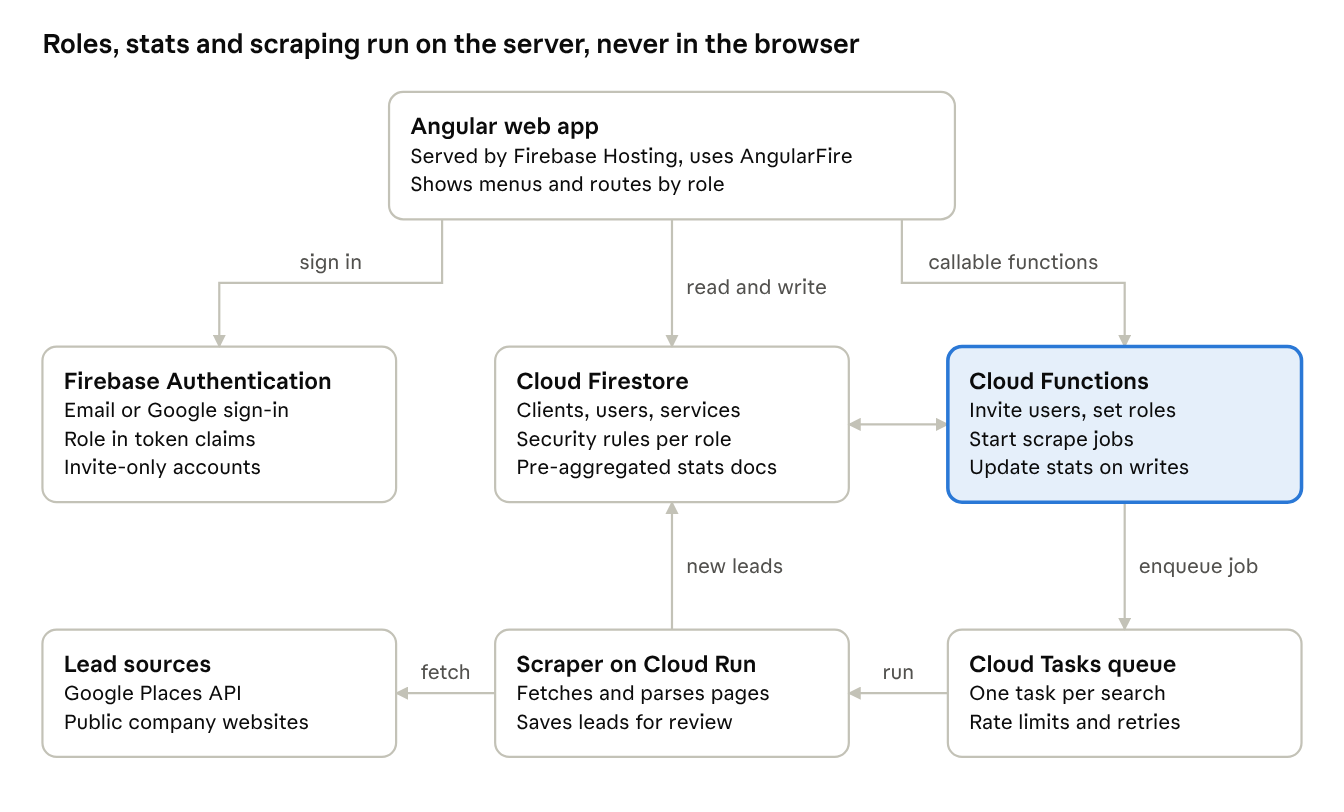
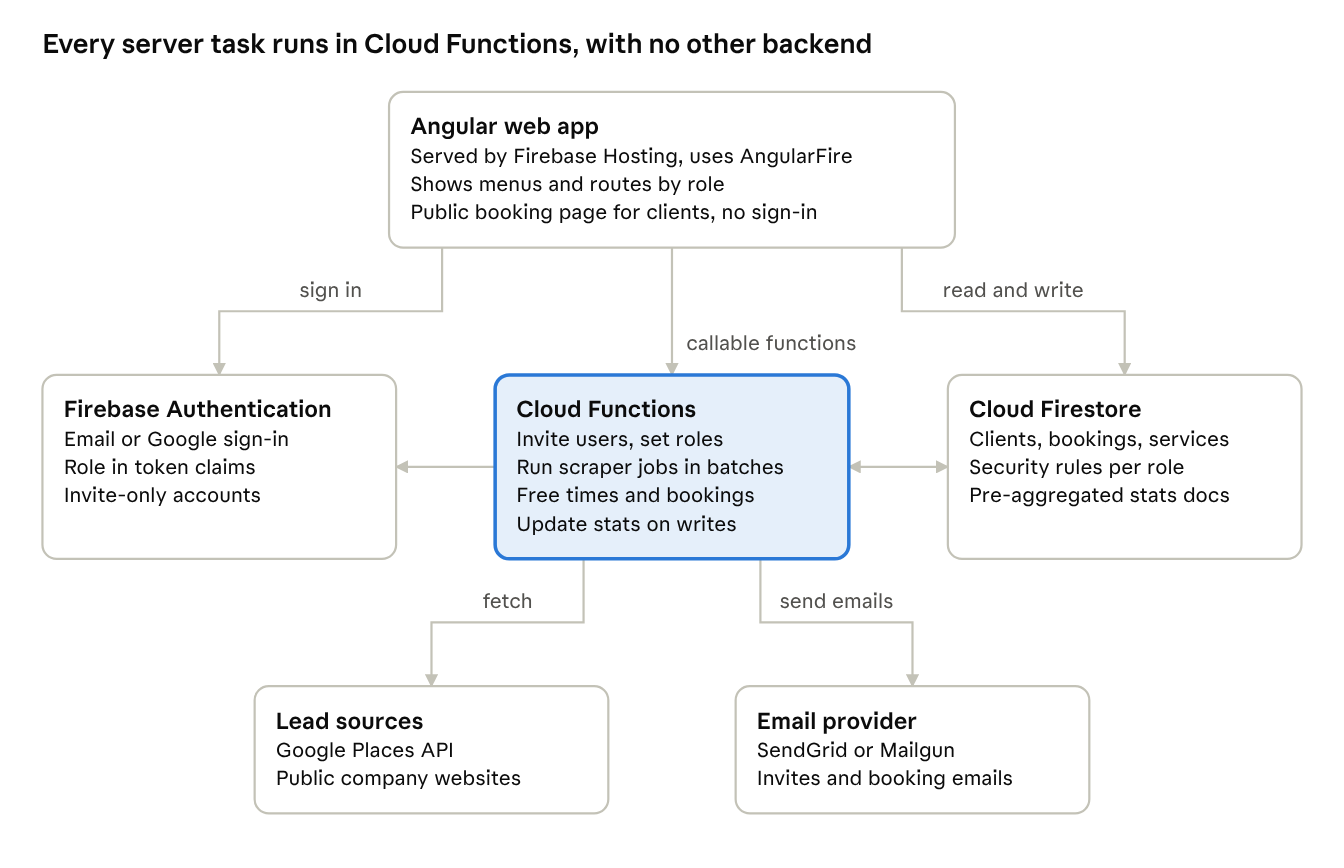
Update planning doc: Functions-only backend, booking calendar, teams
- Run all server logic, including the scraper, in Firebase Functions;
  drop Cloud Run and Cloud Tasks
- Add calendar and booking module: seller availability, public booking
  page, team calendars, booking emails
- One team per user, one team per lead; admins manage several teams and
  the services each team sells
- Move backups, audit log and monitoring to after launch
- Redraw architecture, sitemap and roadmap diagrams

diff --git a/docs/planning.md b/docs/planning.md
@@ -4,34 +4,36 @@ Nov 21, 2026
 
 ## Overview
 
-Klosers CRM is a web app where a sales team keeps its clients in one place, finds new leads with a scraper, moves deals across a pipeline board, and tracks results. It runs on Angular and Firebase, and an admin controls access through roles and per-user permissions.
+Klosers CRM is a web app where a sales team keeps its clients in one place, finds new leads with a scraper, moves deals across a pipeline board, lets clients book calls with sellers, and tracks results. It runs on Angular and Firebase, and an admin controls access through roles and per-user permissions.
 
 **Goals for the first version**
 
-- One shared client database per team, replacing spreadsheets.
+- One shared client database, where each client belongs to one team and one seller, replacing spreadsheets.
 - Admins decide who can see and change what, per role and per user.
-- Every member sees their own numbers; admins see the whole team.
+- Admins manage several teams at the same time, and each team sells its own services.
+- Every member sees their own numbers; admins see every team.
+- Clients book calls with sellers on a public booking page, and each seller controls their own availability.
 - The scraper feeds new leads into a review inbox before they reach the database.
-- The services the team sells are documented in the app and linked to clients and sales.
+- The services each team sells are documented in the app and linked to clients and sales.
 
-**Done means** an admin can invite a member, the member can sign in and work clients on the board, and both see accurate statistics for a chosen period.
+**Done means** an admin can invite a member, the member can sign in and work clients on the board, a client can book a call with that member, and both see accurate statistics for a chosen period.
 
-**Scope:** an internal tool for one company and its sales teams, running in a single production environment.
+**Scope:** an internal tool for one company and its sales teams, running in a single production environment, with the public booking page as the only part open to people outside the company.
 
 ## Roles and permissions
 
-Three roles cover the brief: Admin, Team lead and Member. Each role gives a default set of permissions, and an admin can switch individual permissions on or off for any user.
+Three roles cover the brief: Admin, Team lead and Member. Each role gives a default set of permissions, and an admin can switch individual permissions on or off for any user. Every member and team lead belongs to exactly one team, and a team lead leads only that team. Admins belong to no team: they can work in every team, switch between teams, or view all of them at once.
 
-- **Admin** runs the whole organization: users, teams, permissions, services, pipeline stages and every dashboard.
-- **Team lead** manages one team's clients and sees that team's dashboard. This role is optional; see the open questions.
-- **Member** is a salesperson who works their own clients and sees their own statistics.
+- **Admin** runs the whole organization: users, teams, permissions, services, pipeline stages and every dashboard. Admins manage several teams and their services at the same time.
+- **Team lead** manages one team's clients and calendars and sees that team's dashboard. A team lead can lead only one team.
+- **Member** is a salesperson who works their own clients, keeps their own calendar and availability, and sees their own statistics.
 
 | Permission | Admin | Team lead | Member |
 | --- | --- | --- | --- |
 | Invite and deactivate users | Yes | No | No |
 | Assign roles and permissions | Yes | No | No |
-| Create and edit teams | Yes | No | No |
-| Manage the services catalog | Yes | View | View |
+| Create and edit teams, and set team leads | Yes | No | No |
+| Manage the services catalog and assign services to teams | Yes | View | View |
 | Configure pipeline stages | Yes | No | No |
 | Create clients | Yes | Yes | Yes |
 | Edit clients | All | Own team | Own |
@@ -39,16 +41,19 @@ Three roles cover the brief: Admin, Team lead and Member. Each role gives a defa
 | Reassign a client's owner | All | Own team | No |
 | Run the scraper | Yes | Yes | Optional |
 | Import and export CSV | Yes | Own team | No |
+| Set own availability and booking link | Yes | Yes | Yes |
+| See own calendar and bookings | Yes | Yes | Yes |
+| See team calendars and edit a seller's availability | All teams | Own team | No |
+| Reschedule or cancel another seller's call | All teams | Own team | No |
 | See own statistics | Yes | Yes | Yes |
 | See team totals | All teams | Own team | Optional |
 | See the per-member dashboard | All teams | Own team | No |
-| Read the audit log | Yes | No | No |
 
 "Optional" means off by default, and an admin can turn it on per user.
 
 ## Functional modules
 
-The first version has eight modules. I read "board to administrate" as two things, the pipeline board and the admin panel, and planned both.
+The first version has nine modules. I read "board to administrate" as two things, the pipeline board and the admin panel, and planned both.
 
 ### 1. Authentication
 
@@ -60,7 +65,9 @@ The first version has eight modules. I read "board to administrate" as two thing
 ### 2. Admin panel: users and teams
 
 - Invite a user by email, choose their team and role, and adjust individual permissions.
-- Create teams and name a team lead.
+- Create any number of teams and name a lead for each. A team lead can lead only one team, and every member belongs to one team.
+- Admins belong to no team. They switch between teams or view all of them at once, and manage every team's clients, calendars and services.
+- Assign to each team the services it sells.
 - Deactivate users instead of deleting them, so their history stays intact.
 - Reassign a departing user's clients to someone else in one step.
 
@@ -99,14 +106,26 @@ The first version has eight modules. I read "board to administrate" as two thing
 
 ### 8. Services catalog
 
-- Admins record each service the team sells: name, description, price or price range, currency, category and an active flag.
+- Admins record every service the company sells: name, description, price or price range, currency, category and an active flag. A service can be any product or service.
+- Each team sells its own set of services. Admins assign every service to one or more teams, and a team sees only its own services.
 - Optional links to sales material such as brochures or presentations.
-- Clients and won deals link to one or more services, which powers sales-by-service statistics.
-- Every member can read the catalog when answering a client's questions.
+- Clients, bookings and won deals link to one or more services, which powers sales-by-service statistics.
+- Every member can read their team's services when answering a client's questions.
+
+### 9. Calendar and booking
+
+- **Availability.** Each seller sets weekly working hours, call length (for example 15, 30 or 60 minutes), a buffer between calls, minimum notice, how far ahead clients can book, and days off. Each seller also sets the meeting link shared with clients, or chooses phone calls, and can pause bookings at any time.
+- **Public booking page.** Every seller gets a personal link. A client picks a free time in their own time zone, enters name, email and phone, adds an optional message and service of interest, and confirms. No account is needed.
+- **Linked to the CRM.** A booking creates the client with the source "booking" and the seller as owner, or attaches to the existing client with the same email, and adds the call to the client's timeline.
+- **Emails.** The client and the seller get a confirmation with a calendar file, and a reminder goes out before the call. The client can reschedule or cancel from a link in the email.
+- **Seller calendar.** Day and week views of booked calls. Opening a call shows the client, the meeting link and notes, and lets the seller mark it completed or no-show, reschedule it or cancel it.
+- **Team and admin views.** Team leads see the calendars of their own team. Admins see every team's calendars and can switch between teams.
+- **No double booking.** The server reserves a time in one step, so two clients can never take the same slot. A time disappears when it is booked, when the seller adds time off, or when it falls inside the minimum notice.
+- **Not in the first version:** syncing with Google or Outlook calendars, one team link that assigns whoever is free, and paid bookings.
 
 ## Features and screens for design
 
-The app has 20 screens: two before sign-in, 16 in six sidebar sections, and profile and notifications in the top bar. This section is the brief for the designer, and the UI will be built with Tailwind CSS on Angular.
+The app has 25 screens: two before sign-in, three public booking pages for clients, 18 in seven sidebar sections, and profile and notifications in the top bar. This section is the brief for the designer, and the UI will be built with Tailwind CSS on Angular.
 
 ### Design constraints
 
@@ -115,13 +134,14 @@ The app has 20 screens: two before sign-in, 16 in six sidebar sections, and prof
 - Desktop first, and every screen must still work at phone width.
 - One language only, and text contrast must meet WCAG 2.1 AA.
 - Controls a user has no permission for are hidden, not just disabled.
+- The three booking pages are for clients outside the company: a simple layout with no sidebar, the company logo, large touch-friendly time slots, and the time zone shown next to every time.
 - Still needed from the owner: logo, brand colors, and whether dark mode is wanted.
 
 ### Sitemap
 
-![Sitemap: six sidebar sections, 20 screens](images/sitemap.png)
+![Sitemap: seven sidebar sections, 25 screens](images/sitemap.png)
 
-Members and team leads see the first five sections. The Team dashboard shows only to admins and team leads.
+Members and team leads see the first six sections, and the Admin section is for admins only. The Team dashboard and the Team calendar show only to admins and team leads. The three booking pages are public.
 
 ### Screens
 
@@ -129,46 +149,55 @@ Members and team leads see the first five sections. The Team dashboard shows onl
 | --- | --- | --- | --- | --- |
 | Sign in | 1 | Everyone | Email and password form, Google button, forgot-password link | Sign in, reset password |
 | Accept invite | 1 | Invited users | Welcome message, assigned team and role, password fields | Create account |
-| My dashboard | 2 | Everyone | KPI cards, won-revenue trend, overdue follow-ups, today's tasks | Change period, open a client |
-| Team dashboard | 2 | Admins, team leads | KPIs per team and member, leaderboard, pipeline funnel, sales by service | Filter by date, team, member and service |
+| Booking page | 2 | Clients, no account | The seller's name, call length, a date picker and free times in the client's time zone, and a short form for name, email, phone, message and service of interest | Pick a time, confirm the booking |
+| Booking confirmation | 2 | Clients, no account | The booked time, the seller, the meeting link and a calendar file | Add to calendar, reschedule, cancel |
+| Manage booking | 2 | Clients, no account | The booking behind an emailed link, with free times to move it to | Reschedule, cancel |
+| My dashboard | 3 | Everyone | KPI cards, won-revenue trend, overdue follow-ups, today's tasks | Change period, open a client |
+| Team dashboard | 3 | Admins, team leads | KPIs per team and member, leaderboard, pipeline funnel, sales by service; admins can pick one team or all teams | Filter by date, team, member and service |
 | Client list | 1 | Everyone | Searchable table with filters, sorting, pagination and stage badges | Add client, bulk assign, bulk stage change, delete |
-| Client detail | 1 | Everyone | Contact data, stage, owner, services and value; activity timeline from Phase 2 | Edit, change stage, log activity, set follow-up |
+| Client detail | 1 | Everyone | Contact data, stage, owner, services and value, booked calls; activity timeline from Phase 3 | Edit, change stage, log activity, set follow-up |
 | Client form | 1 | Everyone | Client fields with validation and a duplicate warning | Save, cancel |
-| CSV import | 2 | Admins, team leads | File upload, column mapping, preview with row errors | Import, download template |
+| CSV import | 3 | Admins, team leads | File upload, column mapping, preview with row errors | Import, download template |
 | Kanban board | 1 | Everyone | One column per stage, client cards, value total per column | Drag cards, filter, quick add |
 | Won or lost | 1 | Everyone | Dialog asking for the final value or the loss reason | Confirm, cancel |
-| Lead searches | 3 | Users allowed to scrape | Search form, past searches with status and progress | Start a search, open results |
-| Review inbox | 3 | Users allowed to scrape | Leads from one search, with duplicate flags | Accept, reject, accept all |
-| Service list | 1 | Everyone | Services with price range, category and active flag | Open a service; admins add and edit |
-| Service form | 1 | Admins | Service fields and links to sales material | Save, deactivate |
+| My calendar | 2 | Everyone who sells | Day and week views of booked calls and time off; a call opens in a drawer with the client, meeting link and notes | Mark completed or no-show, reschedule, cancel, add notes |
+| Availability | 2 | Everyone who sells | Weekly hours, call length, buffer, minimum notice, booking window, days off, meeting link, booking link and a pause switch | Edit hours, add time off, copy link, pause bookings |
+| Team calendar | 2 | Admins, team leads | The calendars of every seller in a team side by side; admins can pick a team or all teams | Filter by team and seller, open a call, edit a seller's availability |
+| Lead searches | 4 | Users allowed to scrape | Search form, past searches with status and progress | Start a search, open results |
+| Review inbox | 4 | Users allowed to scrape | Leads from one search, with duplicate flags | Accept, reject, accept all |
+| Service list | 1 | Everyone | Services with price range, category, the teams that sell them and an active flag | Open a service; admins add and edit |
+| Service form | 1 | Admins | Service fields, the teams that sell it, and links to sales material | Save, assign teams, deactivate |
 | Users | 1 | Admins | User table with role, team and status; per-user permission switches | Invite, change role, toggle permissions, deactivate, reassign clients |
-| Teams | 1 | Admins | Teams with their lead and members | Create team, set lead, move members |
+| Teams | 1 | Admins | Teams with their lead, members and services; each lead appears on one team only | Create team, set lead, move members, assign services |
 | Settings | 1 | Admins | Pipeline stages, loss reasons, currency | Add, rename and reorder stages |
-| Audit log | 4 | Admins | Filterable list of who changed what, and when | Filter, open the changed record |
 | Profile | 1 | Everyone | Name, email, password | Edit, sign out |
-| Notifications | 4 | Everyone | New assignments, overdue follow-ups, finished searches | Open, mark as read |
+| Notifications | 5 | Everyone | New assignments, booked calls, overdue follow-ups, finished searches | Open, mark as read |
 
 ### Shared components
 
-- **App shell:** collapsible sidebar, and a top bar with global search (Phase 4), notifications and the user menu.
+- **App shell:** collapsible sidebar, and a top bar with a team switcher for admins, global search (Phase 5), notifications and the user menu.
 - **Data table:** search box, filter chips, sortable columns, pagination and a bulk-action bar.
 - **Charts and KPIs:** KPI card, line chart, bar chart and funnel.
 - **Board:** Kanban column with a value total, and a draggable client card.
-- **Badges:** stage, role and status.
+- **Badges:** stage, role, status, and booking status (confirmed, completed, no-show, cancelled).
 - **Timeline item:** note, call, email, meeting and stage change.
 - **Permission switches:** a grid of on/off toggles per user.
+- **Calendar:** day and week grid with booked calls, time off and free hours, plus a booking detail drawer.
+- **Availability editor:** weekly hours per day with several time ranges, and a list of days off.
+- **Slot picker:** date picker with a list of free times and the time zone shown beside it.
 - **Overlays and forms:** modal, side drawer, confirm dialog, toast, and form fields with error messages.
 
 ### States every screen needs
 
-- Empty, loading and error states for every list, board and dashboard.
+- Empty, loading and error states for every list, board, calendar and dashboard.
 - Validation errors on every form.
 - A "no access" page for routes the user cannot open.
+- Booking pages: no free times, a time that was just taken, a confirmed booking, and an expired or cancelled link.
 - Layouts at desktop, tablet and phone widths.
 
 ## Tech stack and architecture
 
-The app is a single-page Angular app that talks to Firebase directly, with Cloud Functions for anything privileged and a Cloud Run worker for the scraper. No custom backend server is needed.
+The app is a single-page Angular app that talks to Firebase directly, with Cloud Functions for everything privileged, including the scraper. Cloud Functions is the only server-side service, so there is nothing else to deploy or run.
 
 | Layer | Choice | Why |
 | --- | --- | --- |
@@ -179,17 +208,18 @@ The app is a single-page Angular app that talks to Firebase directly, with Cloud
 | Authentication | Firebase Authentication | Email and Google sign-in, custom claims for roles |
 | Database | Cloud Firestore | Live updates for the board, offline cache, security rules |
 | Server logic | Cloud Functions for Firebase, 2nd gen, TypeScript | Invites, roles, stats triggers, scraper jobs |
-| Scraper | Cloud Run worker fed by Cloud Tasks | Long jobs, headless browser, rate limits |
+| Scraper | Task queue functions inside Cloud Functions | Batched jobs with retries and rate limits, using plain HTTP and HTML parsing |
 | Files | Cloud Storage for Firebase | CSV imports and attachments |
-| Hosting | Firebase Hosting | Serves the app; server-side rendering is not needed behind a login |
-| Email | Firebase Trigger Email extension with SendGrid or Mailgun | Invites and notifications |
+| Hosting | Firebase Hosting | Serves the app and the public booking page; server-side rendering is not needed |
+| Email | Firebase Trigger Email extension with SendGrid or Mailgun | Invites, booking confirmations, reminders and notifications |
 | Search, v1 | Algolia or Typesense extension | Full-text search |
+| Calendar views | FullCalendar or angular-calendar | Day and week views of booked calls |
 
-One repository holds four parts: the Angular app, the Cloud Functions, the scraper worker, and the Firestore rules and indexes.
+One repository holds three parts: the Angular app, the Cloud Functions including the scraper, and the Firestore rules and indexes.
 
-![System architecture: seven parts](images/architecture.png)
+![System architecture: six parts](images/architecture.png)
 
-The browser reads and writes Firestore directly, guarded by security rules. Anything that changes roles, counts statistics or calls outside sites goes through Cloud Functions.
+The browser reads and writes Firestore directly, guarded by security rules. Anything that changes roles, counts statistics or calls outside sites goes through Cloud Functions. The public booking page never touches Firestore: it only calls Cloud Functions to list free times and to book a call.
 
 ## Firestore data model
 
@@ -198,20 +228,23 @@ Because this is an internal tool for one company, every collection sits at the t
 | Path | Holds | Key fields |
 | --- | --- | --- |
 | `settings/app` | Company-wide settings | companyName, currency, timezone, pipelineStages[], lossReasons[] |
-| `users/{uid}` | One user profile | teamId, displayName, email, role, permissions{}, status, lastLoginAt |
-| `teams/{teamId}` | A sales team | name, leadUid, memberCount |
+| `users/{uid}` | One user profile | teamId (one team per user, empty for admins), displayName, email, role, permissions{}, status, lastLoginAt |
+| `teams/{teamId}` | A sales team | name, leadUid (a user leads at most one team), memberCount |
 | `invitations/{inviteId}` | Pending invites | email, role, teamId, invitedBy, expiresAt, status |
-| `clients/{clientId}` | A client or lead | companyName, contactName, email, phone, website, industry, city, country, stage, ownerUid, teamId, serviceIds[], estimatedValue, closedValue, lossReason, source, tags[], nextFollowUpAt, searchTokens[], createdAt, updatedAt, deletedAt |
+| `clients/{clientId}` | A client or lead | companyName, contactName, email, phone, website, industry, city, country, stage, ownerUid, teamId, serviceIds[], estimatedValue, closedValue, lossReason, source (scraper, booking, manual or import), tags[], nextFollowUpAt, searchTokens[], createdAt, updatedAt, deletedAt |
 | `clients/{clientId}/activities/{activityId}` | Timeline entries | type, body, authorUid, fromStage, toStage, createdAt |
-| `services/{serviceId}` | Services the team sells | name, description, priceMin, priceMax, currency, category, active, materialUrls[] |
+| `services/{serviceId}` | A service the company sells | name, description, priceMin, priceMax, currency, category, active, teamIds[] (the teams that sell it), materialUrls[] |
+| `availability/{uid}` | A seller's booking settings | bookingSlug, timezone, weeklyHours{}, slotMinutes, bufferMinutes, minNoticeHours, maxDaysAhead, daysOff[], meetingUrl, paused |
+| `bookings/{bookingId}` | A scheduled call | sellerUid, teamId, clientId, serviceId, startAt, endAt, status (confirmed, completed, no-show or cancelled), guestName, guestEmail, guestPhone, message, manageTokenHash, createdAt, cancelledAt, outcomeNote |
 | `scrapeJobs/{jobId}` | One scraper run | createdBy, source, query{}, status, progress, resultCount, startedAt, finishedAt, error |
 | `scrapeJobs/{jobId}/leads/{leadId}` | Leads waiting for review | raw{}, normalized{}, duplicateOfClientId, reviewStatus, reviewedBy |
-| `stats/{scope_period}` | Pre-aggregated numbers | scope (company, team or user), period, countsByStage{}, pipelineValue, wonValue, wonCount, lostCount, activities, byService{} |
-| `auditLog/{entryId}` | Who changed what | actorUid, action, targetPath, before{}, after{}, at |
+| `stats/{scope_period}` | Pre-aggregated numbers | scope (company, team or user), period, countsByStage{}, pipelineValue, wonValue, wonCount, lostCount, activities, callsBooked, callsCompleted, noShows, byService{} |
 
-- **Indexes:** composite indexes for team + stage + last update, owner + next follow-up, and stage + owner.
+- **Indexes:** composite indexes for team + stage + last update, owner + next follow-up, stage + owner, and seller + start time for bookings.
 - **Search:** Firestore has no full-text search. The MVP matches lowercase word prefixes stored in searchTokens; v1 can add Algolia or Typesense through a Firebase Extension.
 - **Deals:** if one client can buy several services over time, stage and value move to a separate deals collection. This is an open question below.
+- **Free times:** a Cloud Function calculates a seller's free times from their weekly hours, days off and existing bookings. A booking is saved in one transaction that checks no other confirmed booking overlaps, so two clients can never take the same time.
+- **One lead per team:** only a Cloud Function can set a team's lead, and it rejects a user who already leads another team.
 
 ## Security and access control
 
@@ -220,13 +253,14 @@ Every Firestore rule starts from deny, and the browser can never grant itself a 
 - **Role in the token.** A Cloud Function sets the role as a custom claim on the user's Firebase Auth token. Only server code can write claims.
 - **Fine-grained permissions.** Per-user switches live in the user's profile under permissions. Rules read them, and small flags can also be copied into the claims.
 - **Fast role changes.** After a role change the function writes a timestamp that the app listens to, and the app refreshes its token. The new role applies within seconds instead of up to an hour.
-- **Rules per path.** Every path checks that the user is signed in and active. Members edit only clients they own, team leads edit their team's clients, and no one but an admin can change a client's owner.
+- **Rules per path.** Every path checks that the user is signed in and active. Members edit only clients they own, team leads edit their team's clients, and no one but an admin can change a client's owner. Sellers read their own bookings, team leads their team's, and admins all of them.
+- **One team, one lead.** Only a Cloud Function can set a user's team or a team's lead, and it rejects a team lead who already leads another team.
 - **Field validation.** Rules check types, required fields and allowed stages. Deletes from the app are soft: they set deletedAt.
-- **Privileged actions on the server.** Inviting, changing roles, deactivating users, starting the scraper, bulk import and permanent deletes run only through callable Cloud Functions.
+- **Privileged actions on the server.** Inviting, changing roles, deactivating users, starting the scraper, bulk import and permanent deletes run only through callable Cloud Functions. So do creating, moving and cancelling bookings.
+- **Public booking page.** It is the only part open to people outside the company. Visitors never touch Firestore. They call two Cloud Functions, one that lists free times and one that books a call, both protected by App Check and by rate limits per address and per email. The list of free times shows times only, never client or booking details. Reschedule and cancel links carry a random token that is stored hashed.
 - **App Check.** Firebase App Check with reCAPTCHA Enterprise rejects requests that do not come from the real app.
-- **Audit log.** Only Cloud Functions write it, and the rules block every write from the browser.
 - **Tests before deploy.** Rules and functions are tested in the Firebase Emulator Suite on every pull request.
-- **Client privacy.** Clients' personal data can be exported or deleted on request, and a "do not contact" flag blocks outreach.
+- **Client privacy.** Clients' personal data can be exported or deleted on request, and a "do not contact" flag blocks outreach. The booking page shows a short privacy notice, and booking emails go only to the person who booked.
 
 ## Lead scraper
 
@@ -235,11 +269,13 @@ The scraper should start with official data APIs and public company websites, no
 **How a search runs**
 
 1. A user fills in the search form: source, keywords, location and industry.
-2. A callable Cloud Function checks the user's permission and the organization's daily quota, then creates a job with the status "queued".
-3. The function puts the job on a Cloud Tasks queue, which controls the request rate and retries failures.
-4. A worker on Cloud Run fetches and parses the data and updates the job's progress. It uses plain HTTP where possible and a headless browser (Playwright) only for pages that need JavaScript.
+2. A callable Cloud Function checks the user's permission and the daily quota, creates a job with the status "queued", and adds the first batch to a task queue.
+3. A task queue function handles one batch: it fetches and parses one page of results or one website, saves the leads and updates the job's progress. Firebase runs these functions with configurable rate limits and automatic retries.
+4. When a batch finishes, the function queues the next one, until the search is complete.
 5. Each lead is normalized and checked against existing clients, then saved in the job's leads list.
 6. The user reviews the inbox. Accepted leads become clients with the source "scraper" and a link to the job.
+
+**Limits of running in Cloud Functions.** Each function call has a time and memory limit, so a search is split into small batches and progress is saved after every batch. The first version uses plain HTTP and HTML parsing with no headless browser, so websites that only show their content through JavaScript are skipped.
 
 **Candidate sources**
 
@@ -257,7 +293,7 @@ The scraper should start with official data APIs and public company websites, no
 
 ## Dashboards and KPIs
 
-Members see their own numbers, and admins see every number broken down per member, team and service. All views filter by date range, team, member and service.
+Members see their own numbers, and admins see every number broken down per member, team and service. All views filter by date range, team, member and service, and admins can view one team, several teams or all of them at once.
 
 | KPI | How it is calculated | Member sees | Admin sees |
 | --- | --- | --- | --- |
@@ -271,6 +307,8 @@ Members see their own numbers, and admins see every number broken down per membe
 | Overdue follow-ups | Clients whose next follow-up date has passed | Own | All |
 | Sales by service | Won revenue per service | Own | All |
 | Scraper yield | Leads accepted ÷ leads found | Own | All |
+| Calls booked | Bookings made in the period | Own | Per member and team |
+| No-show rate | No-shows ÷ calls that were due in the period | Own | All |
 | Leaderboard | Members ranked by won revenue | Optional | Yes |
 
 - **Charts:** a line for trends over time, a funnel for the pipeline stages, and bars per member and per service. ngx-echarts or ng2-charts both work in Angular.
@@ -290,18 +328,20 @@ These are proposed targets for the first version; adjust them once the expected 
 | Environments | One Firebase project, production only; developers work locally on the Firebase Emulator Suite, so tests never touch live data |
 | CI/CD | GitHub Actions runs lint, unit tests, rules tests and the build on every pull request, and deploys to production when it merges to main |
 | Testing | Unit tests for components and services, Emulator Suite tests for rules and functions, Playwright end-to-end tests for the key flows |
-| Backups | Not needed for the MVP; daily Firestore exports and point-in-time recovery can be added in Phase 4 |
-| Monitoring | Kept minimal: Cloud Functions logs in the Firebase console and a budget alert |
-| Cost | The Firebase Blaze plan is required for Cloud Functions, Cloud Run and outbound requests; a budget alert is set from day one |
+| Backups | Not at launch; daily Firestore exports and point-in-time recovery come after launch |
+| Monitoring | Not at launch; the logs Firebase keeps by default are enough, and error tracking and alerts come after launch |
+| Cost | The Firebase Blaze plan is required for Cloud Functions and outbound requests; a budget alert is set from day one |
 | Data protection | Google encrypts data in transit and at rest; client data can be exported or deleted on request |
+| Time zones | Each seller's availability is stored with their time zone; booking pages show times in the visitor's time zone, with the zone name next to every time |
+| Booking page | Free times load in under 2 seconds and the page works at phone width |
 
 ## Roadmap
 
-Five phases take the CRM from an empty repository to v1 in about 12 weeks, and the team can start using the MVP after week 5.
+Six phases take the CRM from an empty repository to v1 in about 15 weeks. The team can start using the CRM after week 5, and clients can book calls after week 8, because calendar and booking comes right after the MVP.
 
-![Roadmap: five phases, three gates](images/roadmap.png)
+![Roadmap: six phases, four gates, then after launch](images/roadmap.png)
 
-The legal review sits before the scraper phase, so no scraper code is built for sources that turn out to be off limits. With a second developer, Phases 2 and 3 can run side by side and v1 lands in about 10 weeks.
+The legal review sits before the scraper phase, so no scraper code is built for sources that turn out to be off limits. With a second developer, Phases 3 and 4 can run side by side and v1 lands in about 13 weeks. Backups, an audit log and monitoring come after launch.
 
 ## What else we need
 
@@ -311,17 +351,15 @@ The brief is missing a few features that almost every CRM needs, and several dec
 
 - **Follow-up tasks and reminders,** so no lead goes cold.
 - **Activity timeline per client,** recording calls, emails, meetings and notes.
-- **Notifications** in the app and by email: new client assigned, follow-up overdue, scraper finished.
+- **Notifications** in the app and by email: new client assigned, call booked, follow-up overdue, scraper finished.
 - **CSV import and export,** to migrate the spreadsheets the team uses today.
 - **Global search** across clients, contacts and services.
-- **Audit log** of sensitive changes such as roles, ownership and deletes.
-- **Later:** Gmail and Outlook integration, WhatsApp click-to-chat links, quotes generated from the services catalog, and a mobile app.
+- **Later:** backups, an audit log, monitoring and error alerts, Google and Outlook calendar sync, one team booking link that assigns whoever is free, Gmail and Outlook email integration, WhatsApp click-to-chat links, quotes generated from the services catalog, and a mobile app.
 
 ### Decisions needed
 
 - [ ] Does "board to administrate" mean the pipeline Kanban, the admin panel, or both?
 - [ ] Can members see teammates' clients, or only their own?
-- [ ] Do we need the Team lead role?
 - [ ] Is one client one deal, or can a client have several deals over time?
 - [ ] What are the final pipeline stages and loss reasons?
 - [ ] Which scraper sources, countries and cities come first?
@@ -331,6 +369,10 @@ The brief is missing a few features that almost every CRM needs, and several dec
 - [ ] How many users and clients are expected in the first year?
 - [ ] What is the target date for the MVP?
 - [ ] Is there branding ready: logo, colors, domain?
+- [ ] Should clients book a specific seller, or a team link that assigns whoever is free?
+- [ ] Which meeting tool do calls use: a link each seller pastes (Meet, Zoom or Teams), or phone calls?
+- [ ] Is syncing with each seller's Google or Outlook calendar needed at launch, to avoid bookings while they are busy elsewhere?
+- [ ] Does each service belong to one team, or can several teams sell the same service?
 
 ## Risks and mitigations
 
@@ -339,10 +381,13 @@ The scraper carries the most risk, which is why it comes after the MVP and behin
 | Risk | What happens | Mitigation |
 | --- | --- | --- |
 | Scraping breaks a site's terms or a privacy law | Blocked accounts, legal claims | Official APIs first, legal review gate, source stored per lead, do-not-contact flag |
-| Sites block or change their pages | Scraper returns nothing | API-first sources, retries through Cloud Tasks, failed jobs flagged in the app |
+| Sites block or change their pages | Scraper returns nothing | API-first sources, automatic retries in the task queue, failed jobs flagged in the app |
 | A rules mistake leaks data between users | Members see clients they should not | Deny by default, Emulator rules tests in CI, server-only role changes |
 | Dashboards read too many documents | Firestore bill grows with every visit | Pre-aggregated stats documents, budget alerts |
 | Firestore cannot do full-text search | Users cannot find clients by partial words | Prefix tokens for the MVP, Algolia or Typesense in v1 |
 | A changed role stays in the old token | User keeps old access for up to an hour | Forced token refresh after every role change |
 | Scope grows before launch | MVP slips | Phased roadmap; new ideas go to the later list |
-| A bad deploy or a manual test changes live data | Clients or stats are corrupted, with no staging copy to catch it first | Emulator tests in CI and deploys only from CI; backups are added in Phase 4 |
+| A bad deploy or a manual test changes live data | Clients or stats are corrupted, with no staging copy to catch it first | Emulator tests in CI and deploys only from CI; backups come after launch |
+| Scraper jobs hit function time or memory limits | Large searches stop partway | Small batches that queue the next batch, progress saved after every batch, failed batches retried |
+| Two clients book the same time, or bots fill a calendar | A seller is double booked, or real clients find no free times | The server reserves a time in one transaction, App Check and rate limits protect the booking functions, and sellers can pause bookings |
+| Sellers' own calendars are not synced | A seller is booked while busy elsewhere | Sellers block busy times in the app; calendar sync is planned as a later addition |
